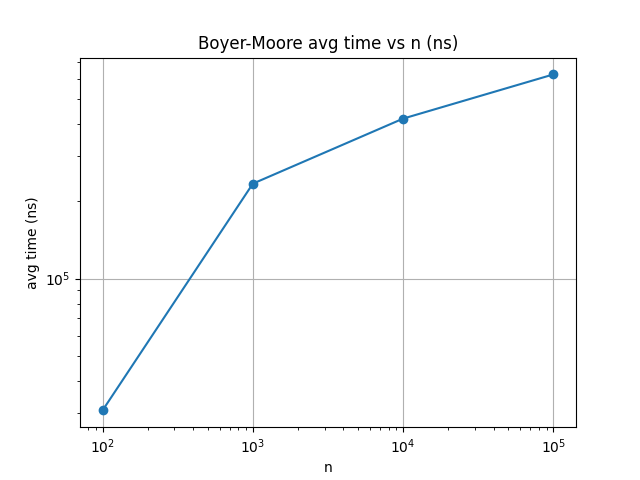
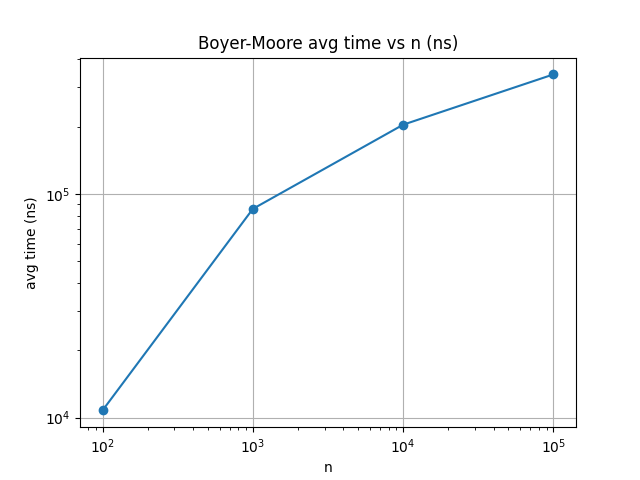
feat(optimization): .py was run to create plots for fresh information

diff --git a/docs/performance-plots/execution_time_table.md b/docs/performance-plots/execution_time_table.md
@@ -1,6 +1,6 @@
 |      n |   avg_ns |
 |-------:|---------:|
-|    100 |    30660 |
-|   1000 |   234510 |
-|  10000 |   420450 |
-| 100000 |   625060 |
+|    100 |    10760 |
+|   1000 |    85710 |
+|  10000 |   203930 |
+| 100000 |   342320 |
